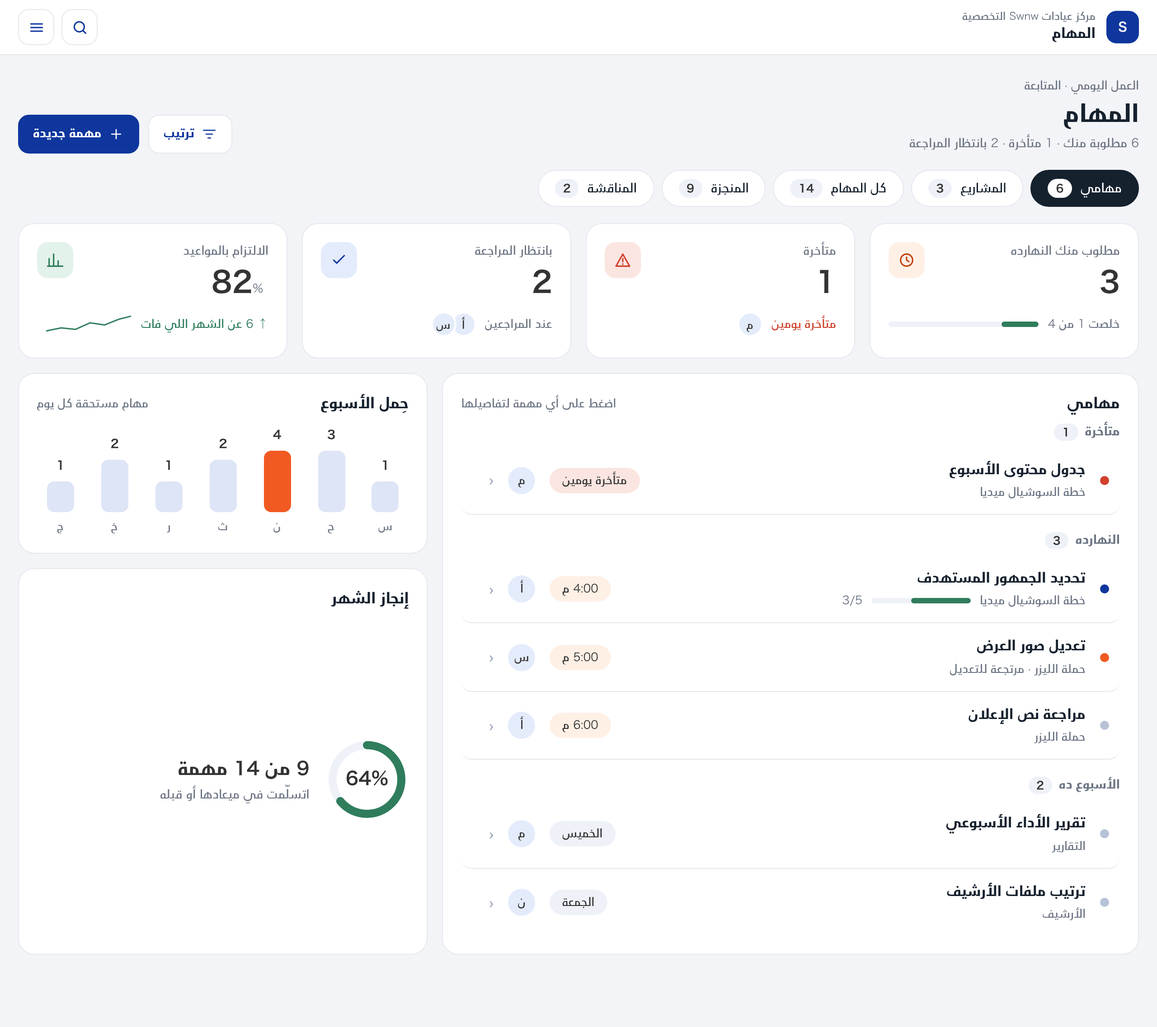
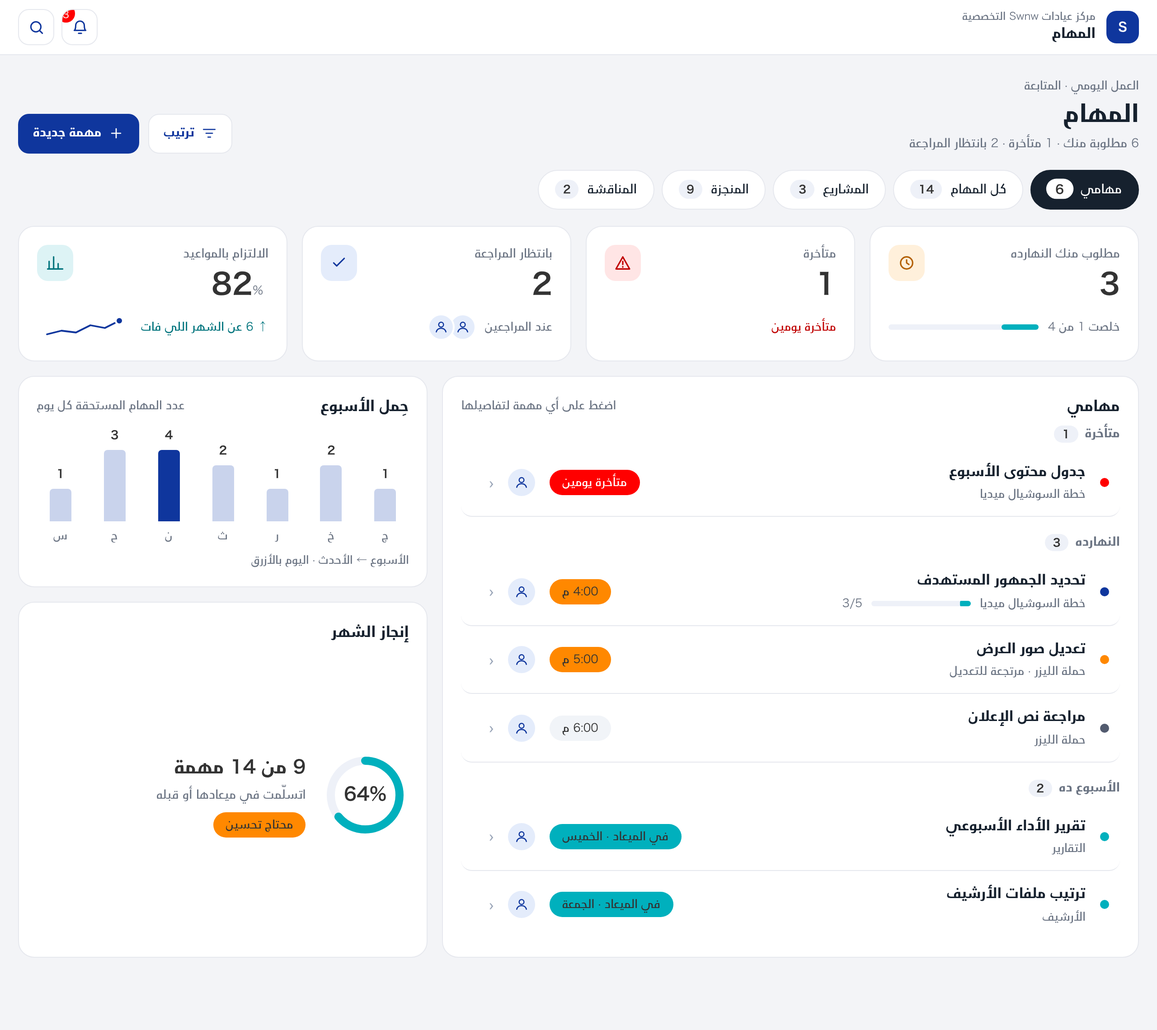
Mockup: Tasks v4 from the owner's kits (status colours, charts, motion/sound, manager view)

diff --git a/docs/ui-references/mockups/tasks-v2.html b/docs/ui-references/mockups/tasks-v2.html
@@ -1,111 +1,167 @@
-<!doctype html><html lang="ar" dir="rtl"><head><meta charset="utf-8"><meta name="viewport" content="width=device-width,initial-scale=1"><title>تصور — المهام (v3)</title>
-<!-- Mockup only (2026-11-19). Sample data. Same language as approved home v2 / team performance: no hero banner, icon-chip KPI tiles,
-     one-line meters, soft chips with dark #333 text, popups for every total and every task, 16px gutter, nothing wraps inside chips/buttons. -->
+<!doctype html><html lang="ar" dir="rtl"><head><meta charset="utf-8"><meta name="viewport" content="width=device-width,initial-scale=1"><title>تصور — المهام (v4)</title>
+<!-- Mockup only (2026-11-19). Sample data. Built from the owner-approved kits:
+     colours = status palette (on time #00B0BD, late #FF8800, absent/late-red #FF0000, grey #525B6F, none #F1F4F8; numbers on teal/orange in #333333),
+     charts = CHARTS.md (spark with end dot, segmented bar, meters, columns ≤24px LTR newest-right, ring + band chip),
+     motion/sound = interaction table (ripple+tick on press, lift on hover, pill slide + count bump, cards rise, numbers count up, bars grow; ui-motion.js/css loaded so sounds really play),
+     layout = home v2 / team performance: no hero banner, icon-chip KPI tiles, one 16px gutter, popups for every total and task, no wrapping inside chips/buttons. -->
+<link rel="stylesheet" href="../../../assets/css/ui-motion.css">
 <style>
 @font-face{font-family:"BigVesta Arabic";src:url("../../../assets/fonts/BigVesta-Regular.woff2") format("woff2");font-weight:400}
 @font-face{font-family:"BigVesta Arabic";src:url("../../../assets/fonts/BigVesta-Bold.woff2") format("woff2");font-weight:700}
 @font-face{font-family:"Hiragino Kaku";src:url("../../../assets/fonts/Hiragino-W3.woff2") format("woff2");font-weight:300}
 @font-face{font-family:"Hiragino Kaku";src:url("../../../assets/fonts/Hiragino-W6.woff2") format("woff2");font-weight:600}
-:root{--gap:16px;--blue:#0F369D;--ink:#16212E;--pos:#2F7D5C;--neg:#D0402A;--or:#F15A22;--bg:#F3F4F7;--line:#E6E8EE;--mute:#6B7483;--num:#333333;--ease:cubic-bezier(.22,1,.36,1)}
+:root{--gap:16px;--blue:#0F369D;--ink:#16212E;--teal:#00B0BD;--or:#FF8800;--red:#FF0000;--grey:#525B6F;--none:#F1F4F8;--bg:#F3F4F7;--line:#E6E8EE;--mute:#6B7483;--num:#333333;--ease:cubic-bezier(.22,1,.36,1);--spring:cubic-bezier(.34,1.56,.64,1)}
 *{box-sizing:border-box}
 body{margin:0;background:var(--bg);color:var(--ink);font-family:"Hiragino Kaku","BigVesta Arabic",system-ui,Tahoma,sans-serif;font-size:14px;line-height:1.6;font-variant-numeric:tabular-nums}
-svg{fill:none;stroke:currentColor;stroke-width:1.9;stroke-linecap:round;stroke-linejoin:round}
-button{font:inherit;color:inherit}
+svg{fill:none;stroke:currentColor;stroke-width:1.9;stroke-linecap:round;stroke-linejoin:round}button{font:inherit;color:inherit}
 .top{background:#fff;border-bottom:1px solid var(--line);display:flex;align-items:center;justify-content:space-between;padding:10px 20px}
 .brand{display:flex;align-items:center;gap:12px}.logo{width:36px;height:36px;border-radius:11px;background:var(--blue);color:#fff;display:grid;place-items:center;font-weight:700}
 .brand small{display:block;color:var(--mute);font-size:11.5px;line-height:1.3}.brand b{font-size:15px;line-height:1.3}
-.ib{width:40px;height:40px;border-radius:12px;border:1px solid var(--line);background:#fff;display:grid;place-items:center;color:var(--blue);cursor:pointer;transition:transform .2s var(--ease),background .2s}
-.ib:hover{background:#F3F5FA}.ib:active{transform:scale(.94)}.ib svg{width:19px;height:19px}
-.tb{display:flex;gap:8px}
+.ib{position:relative;width:40px;height:40px;border-radius:12px;border:1px solid var(--line);background:#fff;display:grid;place-items:center;color:var(--blue);cursor:pointer;transition:transform .2s var(--ease),background .2s}
+.ib:hover{background:#F3F5FA}.ib:active{transform:scale(.94)}.ib svg{width:19px;height:19px}.tb{display:flex;gap:8px}
+.badge{position:absolute;top:-6px;left:-6px;background:var(--red);color:#fff;border-radius:999px;font-size:11px;min-width:20px;height:20px;display:grid;place-items:center;padding:0 5px;line-height:1;box-shadow:0 0 0 2px #fff}
 .page{max-width:1280px;margin:0 auto;padding:var(--gap) 20px 80px;display:flex;flex-direction:column;gap:var(--gap)}
 .ph{display:flex;align-items:flex-end;gap:12px;flex-wrap:wrap;margin-top:8px}
-.crumb{font-size:12.5px;color:var(--mute)}.ph h1{margin:4px 0 6px;font-size:26px;line-height:1.3}.sub{font-size:13px;color:var(--mute);white-space:nowrap}
+.crumb{font-size:12.5px;color:var(--mute)}.ph h1{margin:4px 0 6px;font-size:26px;line-height:1.3}.sub{font-size:13px;color:var(--mute)}
 .acts{margin-inline-start:auto;display:flex;gap:10px;align-items:center}
-.btn{white-space:nowrap;display:inline-flex;align-items:center;gap:8px;border:1px solid var(--line);background:#fff;color:var(--blue);font-weight:600;font-size:13px;border-radius:12px;padding:10px 16px;min-height:42px;cursor:pointer;transition:background .18s,border-color .18s,transform .12s}
+.btn{position:relative;overflow:hidden;white-space:nowrap;display:inline-flex;align-items:center;gap:8px;border:1px solid var(--line);background:#fff;color:var(--blue);font-weight:600;font-size:13px;border-radius:12px;padding:10px 16px;min-height:44px;cursor:pointer;transition:background .18s,border-color .18s,transform .12s}
 .btn:hover{background:#F5F8FE;border-color:#B9C8EA}.btn:active{transform:scale(.97)}.btn svg{width:17px;height:17px}
 .btn.p{background:var(--blue);border-color:var(--blue);color:#fff}.btn.p:hover{background:#0c2d85}
 .seg{display:flex;gap:8px;overflow-x:auto;scrollbar-width:none;padding:2px 0}.seg::-webkit-scrollbar{display:none}
-.sg{flex:none;white-space:nowrap;border:1px solid var(--line);background:#fff;border-radius:999px;padding:9px 18px;display:flex;gap:10px;align-items:center;cursor:pointer;font-size:13.5px;transition:.22s}
-.sg b{background:#EEF1F8;color:var(--num);border-radius:999px;padding:0 9px;font-size:12px;min-width:24px;text-align:center;line-height:1.7}
-.sg.on{background:var(--ink);color:#fff;border-color:var(--ink)}.sg.on b{background:#fff}
+.sg{flex:none;white-space:nowrap;border:1px solid var(--line);background:#fff;border-radius:999px;padding:9px 18px;min-height:44px;display:flex;gap:10px;align-items:center;cursor:pointer;font-size:13.5px;transition:background .24s var(--ease),color .24s,border-color .24s}
+.sg b{background:#EEF1F8;color:var(--num);border-radius:999px;padding:0 9px;font-size:12px;min-width:24px;text-align:center;line-height:1.7;transition:transform .42s var(--spring)}
+.sg.on{background:var(--ink);color:#fff;border-color:var(--ink)}.sg.on b{background:#fff;transform:scale(1.12)}
 .card{background:#fff;border:1px solid var(--line);border-radius:18px;padding:20px;min-width:0}
+.rise>*{opacity:0;transform:translateY(14px);animation:rise .5s var(--ease) forwards}
+.rise>*:nth-child(1){animation-delay:.02s}.rise>*:nth-child(2){animation-delay:.09s}.rise>*:nth-child(3){animation-delay:.16s}.rise>*:nth-child(4){animation-delay:.23s}.rise>*:nth-child(5){animation-delay:.3s}
+@keyframes rise{to{opacity:1;transform:none}}
 .kpis{display:grid;grid-template-columns:repeat(4,minmax(0,1fr));gap:var(--gap)}
-.kpi{display:grid;grid-template-columns:1fr auto;gap:6px 12px;align-content:start;cursor:pointer;text-align:right;transition:transform .2s var(--ease),box-shadow .2s;min-height:150px}
-@media(hover:hover){.kpi:hover{transform:translateY(-3px);box-shadow:0 10px 24px rgba(15,54,157,.08)}}
+.kpi{display:grid;grid-template-columns:1fr auto;gap:6px 12px;align-content:start;cursor:pointer;text-align:right;transition:transform .2s var(--ease),box-shadow .2s;min-height:150px;position:relative;overflow:hidden}
+@media(hover:hover){.kpi:hover{transform:translateY(-3px)!important;box-shadow:0 10px 24px rgba(15,54,157,.1)}}
+.kpi:active{transform:scale(.97)}
 .ico{grid-row:1/3;grid-column:2;width:40px;height:40px;border-radius:12px;display:grid;place-items:center}.ico svg{width:20px;height:20px}
-.i-b{background:#E4ECFB;color:var(--blue)}.i-r{background:#FBE5E0;color:var(--neg)}.i-o{background:#FFF0E6;color:#C2410C}.i-g{background:#E3F2EA;color:var(--pos)}
+.i-b{background:#E4ECFB;color:var(--blue)}.i-r{background:#FFE5E5;color:#C00000}.i-o{background:#FFF0DB;color:#B35F00}.i-t{background:#DDF3F5;color:#00747D}
 .kpi small{color:var(--mute);font-size:13px;grid-column:1}.kpi b{font-size:32px;line-height:1.1;color:var(--num);grid-column:1}.kpi b u{font-size:13px;text-decoration:none;color:var(--mute);font-weight:400;margin-inline-start:6px}
 .kpi .ft{grid-column:1/-1;display:flex;align-items:center;gap:10px;margin-top:8px;font-size:12.5px;color:var(--mute);min-height:30px}
-.neg{color:var(--neg)}.pos{color:var(--pos)}
-.avs{display:flex}.avs i{width:28px;height:28px;border-radius:50%;background:#E4ECFB;border:2px solid #fff;display:grid;place-items:center;font-style:normal;font-size:12px;color:var(--num);margin-inline-start:-6px}.avs i:first-child{margin-inline-start:0}
-.meter{height:6px;border-radius:6px;background:#EEF1F8;flex:1;overflow:hidden}.meter i{display:block;height:100%;border-radius:6px;background:var(--pos)}
-.cols{display:grid;grid-template-columns:minmax(0,1.7fr) minmax(0,1fr);gap:var(--gap);align-items:stretch}.stack .card:last-child{flex:1}
-.ch{display:flex;align-items:center;justify-content:space-between;margin-bottom:6px}.ch h2{margin:0;font-size:16px}.ch span{color:var(--mute);font-size:12.5px}
+.neg{color:#C00000}.pos{color:#00747D}
+.avs{display:flex}.av{width:30px;height:30px;border-radius:50%;background:#E4ECFB;color:var(--blue);display:grid;place-items:center;flex:none}.av svg{width:16px;height:16px}.avs .av{border:2px solid #fff;margin-inline-start:-6px}.avs .av:first-child{margin-inline-start:0}
+.meter{height:6px;border-radius:6px;background:#EEF1F8;flex:1;overflow:hidden}.meter i{display:block;height:100%;border-radius:6px;background:var(--teal);transform-origin:right;animation:grow .8s var(--ease) both}
+@keyframes grow{from{transform:scaleX(0)}}
+.cols{display:grid;grid-template-columns:minmax(0,1.7fr) minmax(0,1fr);gap:var(--gap);align-items:stretch}
+.stack{display:flex;flex-direction:column;gap:var(--gap)}.stack .card:last-child{flex:1;display:flex;flex-direction:column}
+.ch{display:flex;align-items:center;justify-content:space-between;margin-bottom:8px;gap:12px}.ch h2{margin:0;font-size:16px}.ch span{color:var(--mute);font-size:12.5px}
 .grp h3{margin:18px 0 6px;font-size:13px;color:var(--mute);font-weight:600;display:flex;gap:8px;align-items:center}.grp h3:first-of-type{margin-top:8px}
 .grp h3 b{background:#EEF1F8;color:var(--num);border-radius:999px;padding:0 9px;font-size:12px}
-.row{display:grid;grid-template-columns:10px minmax(0,1fr) auto auto 24px;gap:16px;align-items:center;padding:14px 12px;border-bottom:1px solid var(--line);border-radius:12px;cursor:pointer;background:transparent;border-inline:0;border-top:0;width:100%;text-align:right;transition:background .18s}
-.row:last-child{border-bottom:0}@media(hover:hover){.row:hover{background:var(--bg)}}
-.dot{width:10px;height:10px;border-radius:50%;background:#B8C2D6}.d-late{background:var(--neg)}.d-go{background:var(--blue)}.d-rev{background:var(--or)}
-.t b{display:block;font-size:15px;line-height:1.5;margin-bottom:4px}.t span{display:flex;gap:10px;align-items:center;color:var(--mute);font-size:12.5px}.t .meter{max-width:110px;flex:none;width:110px}
-.chip{border-radius:999px;padding:4px 14px;font-size:12.5px;white-space:nowrap;color:var(--num);line-height:1.6}
-.c-late{background:#FBE5E0}.c-today{background:#FFF0E6}.c-week{background:#EEF1F8}.c-go{background:#E4ECFB}.c-ok{background:#E3F2EA}
-.av{width:30px;height:30px;border-radius:50%;background:#E4ECFB;display:grid;place-items:center;font-size:12.5px;color:var(--num)}
+.row{position:relative;overflow:hidden;display:grid;grid-template-columns:10px minmax(0,1fr) auto auto 24px;gap:16px;align-items:center;padding:14px 12px;border-bottom:1px solid var(--line);border-radius:12px;cursor:pointer;background:transparent;border-inline:0;border-top:0;width:100%;text-align:right;transition:background .18s,transform .12s}
+.row:last-child{border-bottom:0}.row:active{transform:scale(.99)}@media(hover:hover){.row:hover{background:var(--bg)}}
+.dot{width:10px;height:10px;border-radius:50%;background:var(--grey)}.d-late{background:var(--red)}.d-go{background:var(--blue)}.d-soon{background:var(--or)}.d-ok{background:var(--teal)}
+.t b{display:block;font-size:15px;line-height:1.5;margin-bottom:4px}.t span.l{display:flex;gap:10px;align-items:center;color:var(--mute);font-size:12.5px}.t .meter{flex:none;width:110px}
+.chip{border-radius:999px;padding:4px 14px;font-size:12.5px;white-space:nowrap;line-height:1.6;color:var(--num)}
+.st-ok{background:var(--teal)}.st-soon{background:var(--or)}.st-late{background:var(--red);color:#fff}.st-wait{background:var(--grey);color:#fff}.st-new{background:var(--none)}.st-go{background:#E4ECFB}
 .arr{color:#9AA5B8;font-size:18px}
-.week{display:grid;grid-template-columns:repeat(7,1fr);gap:8px;margin-top:12px;align-items:end;height:120px}
-.week div{display:flex;flex-direction:column;align-items:center;gap:6px;justify-content:flex-end;height:100%;font-size:12px;color:var(--mute)}
-.week i{width:100%;max-width:30px;border-radius:8px;background:#DDE5F6;display:block}.week .now i{background:var(--or)}.week b{color:var(--num);font-size:13px}
-.ring{display:flex;gap:18px;align-items:center;margin-top:8px;flex:1}.stack .card:last-child{display:flex;flex-direction:column}.ring svg{width:92px;height:92px;flex:none}.ring p{margin:0;color:var(--mute);font-size:13px}.ring strong{display:block;font-size:20px;color:var(--num);margin-bottom:4px}
-.stack{display:flex;flex-direction:column;gap:var(--gap)}
+.chart{direction:ltr;display:flex;align-items:flex-end;justify-content:space-between;gap:8px;height:130px;margin-top:10px}
+.chart div{flex:1;display:flex;flex-direction:column;align-items:center;justify-content:flex-end;gap:6px;height:100%;font-size:12px;color:var(--mute)}
+.chart i{display:block;width:100%;max-width:24px;border-radius:4px 4px 0 0;background:#C9D3EC;transform-origin:bottom;animation:growy .7s var(--ease) both}.chart .now i{background:var(--blue)}
+@keyframes growy{from{transform:scaleY(0)}}
+.chart b{color:var(--num);font-size:12.5px}.cap{font-size:12px;color:var(--mute);margin-top:8px}
+.ring{display:flex;gap:18px;align-items:center;flex:1}.ring svg{width:96px;height:96px;flex:none}.ring .rg{stroke-dashoffset:0;animation:fill 1s var(--ease) both}
+@keyframes fill{from{stroke-dashoffset:239}}
+.ring p{margin:0;color:var(--mute);font-size:13px}.ring strong{display:block;font-size:20px;color:var(--num);margin-bottom:6px}
+.band{display:inline-block;margin-top:8px}
+.spark{width:96px;height:28px;color:var(--blue)}.spark path.ln{stroke-dasharray:200;animation:draw 1s var(--ease) both}@keyframes draw{from{stroke-dashoffset:200}}
+.segbar{display:flex;gap:2px;height:14px;margin:10px 0 14px;border-radius:7px;overflow:hidden}.segbar i{display:block;transform-origin:right;animation:grow .8s var(--ease) both}
+.leg{display:flex;flex-wrap:wrap;gap:8px 18px;font-size:13px;color:var(--ink)}.leg span{display:flex;gap:8px;align-items:center}.leg i{width:10px;height:10px;border-radius:3px;display:block}.leg b{color:var(--num)}
+.ml{display:grid;gap:14px;margin-top:10px}.ml div{display:grid;grid-template-columns:130px minmax(0,1fr) 54px;gap:12px;align-items:center;font-size:13.5px}.ml em{font-style:normal;color:var(--num);text-align:left;font-weight:600}
+.ml .meter i{background:var(--blue)}.ml .over i{background:var(--or)}
+.panel{display:none}.panel.on{display:flex;flex-direction:column;gap:var(--gap)}
 .ov{position:fixed;inset:0;background:rgba(22,33,46,.45);display:none;align-items:center;justify-content:center;padding:16px;z-index:9}.ov.open{display:flex}
 .sheet{background:#fff;border-radius:22px;width:min(560px,100%);max-height:88vh;overflow:auto;padding:24px;animation:up .26s var(--ease)}
 @keyframes up{from{transform:translateY(24px);opacity:0}to{transform:none;opacity:1}}
 .sheet h3{margin:0 0 4px;font-size:20px}.sheet .m{color:var(--mute);font-size:13px;margin-bottom:18px}
 .f{display:grid;grid-template-columns:1fr 1fr;gap:10px;margin-bottom:16px}.f div{background:var(--bg);border-radius:12px;padding:12px 14px;font-size:13.5px}.f span.l{display:block;color:var(--mute);font-size:12px;margin-bottom:4px}
-.desc{font-size:14px;line-height:1.8;margin-bottom:18px}
-.btns{display:flex;gap:10px;margin-top:18px}.btns .btn{flex:1;justify-content:center}
+.desc{font-size:14px;line-height:1.8;margin-bottom:18px}.btns{display:flex;gap:10px;margin-top:18px}.btns .btn{flex:1;justify-content:center}
 .pr{display:flex;justify-content:space-between;align-items:center;gap:12px;padding:12px 0;border-bottom:1px dashed var(--line);font-size:14px}.pr:last-of-type{border:0}
 @media(max-width:900px){.kpis{grid-template-columns:repeat(2,minmax(0,1fr))}.cols{grid-template-columns:1fr}}
-@media(max-width:600px){.page{padding:12px 12px 80px}.row{grid-template-columns:10px minmax(0,1fr) auto 20px}.row .av{display:none}.acts .btn.sec{display:none}.sub{white-space:normal}.kpi{min-height:140px}.kpi b{font-size:28px}.ov{align-items:flex-end;padding:0}.sheet{border-radius:22px 22px 0 0}.t .meter{display:none}}
+@media(max-width:600px){.page{padding:12px 12px 80px}.row{grid-template-columns:10px minmax(0,1fr) auto 20px}.row .av{display:none}.acts .sec{display:none}.kpi{min-height:140px}.kpi b{font-size:28px}.ov{align-items:flex-end;padding:0}.sheet{border-radius:22px 22px 0 0}.t .meter{display:none}.ml div{grid-template-columns:90px minmax(0,1fr) 44px}}
+html.still *{animation:none!important;transition:none!important}html.still .rise>*{opacity:1;transform:none}
+@media(prefers-reduced-motion:reduce){*{animation:none!important;transition:none!important}.rise>*{opacity:1;transform:none}}
 </style></head><body>
-<div class="top"><div class="brand"><div class="logo">S</div><div><small>مركز عيادات Swnw التخصصية</small><b>المهام</b></div></div><div class="tb"><button class="ib" aria-label="بحث"><svg viewBox="0 0 24 24"><circle cx="11" cy="11" r="7"/><path d="M20 20l-4-4"/></svg></button><button class="ib" aria-label="القائمة"><svg viewBox="0 0 24 24"><path d="M4 7h16M4 12h16M4 17h16"/></svg></button></div></div>
+<svg width="0" height="0" style="position:absolute"><symbol id="u" viewBox="0 0 24 24"><circle cx="12" cy="8" r="4"/><path d="M4 20c1-4 4-6 8-6s7 2 8 6"/></symbol></svg>
+<div class="top"><div class="brand"><div class="logo">S</div><div><small>مركز عيادات Swnw التخصصية</small><b>المهام</b></div></div><div class="tb"><button class="ib fx-ripple" aria-label="الإشعارات"><svg viewBox="0 0 24 24"><path d="M6 9a6 6 0 0112 0c0 6 2 7 2 7H4s2-1 2-7M10 20h4"/></svg><span class="badge">3</span></button><button class="ib fx-ripple" aria-label="بحث"><svg viewBox="0 0 24 24"><circle cx="11" cy="11" r="7"/><path d="M20 20l-4-4"/></svg></button></div></div>
 <div class="page">
- <div class="ph"><div><div class="crumb">العمل اليومي · المتابعة</div><h1>المهام</h1><div class="sub">6 مطلوبة منك · 1 متأخرة · 2 بانتظار المراجعة</div></div>
-  <div class="acts"><button class="btn sec"><svg viewBox="0 0 24 24"><path d="M3 6h18M7 12h10M10 18h4"/></svg>ترتيب</button><button class="btn p"><svg viewBox="0 0 24 24"><path d="M12 5v14M5 12h14"/></svg>مهمة جديدة</button></div></div>
- <div class="seg"><button class="sg on">مهامي <b>6</b></button><button class="sg">المشاريع <b>3</b></button><button class="sg">كل المهام <b>14</b></button><button class="sg">المنجزة <b>9</b></button><button class="sg">المناقشة <b>2</b></button></div>
- <div class="kpis">
-  <button class="card kpi" data-pop="today"><span class="ico i-o"><svg viewBox="0 0 24 24"><circle cx="12" cy="12" r="8"/><path d="M12 8v4l3 2"/></svg></span><small>مطلوب منك النهارده</small><b>3</b><div class="ft"><span>خلصت 1 من 4</span><span class="meter"><i style="width:25%"></i></span></div></button>
-  <button class="card kpi" data-pop="late"><span class="ico i-r"><svg viewBox="0 0 24 24"><path d="M12 4l9 16H3z"/><path d="M12 10v4M12 17v.5"/></svg></span><small>متأخرة</small><b class="neg">1</b><div class="ft"><span class="neg">متأخرة يومين</span><span class="avs"><i>م</i></span></div></button>
-  <button class="card kpi" data-pop="review"><span class="ico i-b"><svg viewBox="0 0 24 24"><path d="M5 12l4 4 10-10"/></svg></span><small>بانتظار المراجعة</small><b>2</b><div class="ft"><span>عند المراجعين</span><span class="avs"><i>أ</i><i>س</i></span></div></button>
-  <div class="card kpi" style="cursor:default"><span class="ico i-g"><svg viewBox="0 0 24 24"><path d="M4 20V10M10 20V4M16 20v-7M22 20H2"/></svg></span><small>الالتزام بالمواعيد</small><b>82<u>%</u></b><div class="ft"><span class="pos">↑ 6 عن الشهر اللي فات</span><svg viewBox="0 0 120 30" style="width:96px;height:28px;color:var(--pos)"><path d="M2 24l20-4 20 2 20-9 20 3 20-8 16-4"/></svg></div></div>
+ <div class="ph"><div><div class="crumb">العمل اليومي · المتابعة</div><h1>المهام</h1><div class="sub" id="sub">6 مطلوبة منك · 1 متأخرة · 2 بانتظار المراجعة</div></div>
+  <div class="acts"><button class="btn sec fx-ripple"><svg viewBox="0 0 24 24"><path d="M3 6h18M7 12h10M10 18h4"/></svg>ترتيب</button><button class="btn p fx-ripple"><svg viewBox="0 0 24 24"><path d="M12 5v14M5 12h14"/></svg>مهمة جديدة</button></div></div>
+ <div class="seg" id="tabs"><button class="sg on" data-tab="mine">مهامي <b>6</b></button><button class="sg" data-tab="all">كل المهام <b>14</b></button><button class="sg">المشاريع <b>3</b></button><button class="sg">المنجزة <b>9</b></button><button class="sg">المناقشة <b>2</b></button></div>
+
+ <!-- شاشة الموظف -->
+ <div class="panel on" id="p-mine">
+  <div class="kpis rise">
+   <button class="card kpi fx-ripple" data-pop="today"><span class="ico i-o"><svg viewBox="0 0 24 24"><circle cx="12" cy="12" r="8"/><path d="M12 8v4l3 2"/></svg></span><small>مطلوب منك النهارده</small><b data-count="3">0</b><div class="ft"><span>خلصت 1 من 4</span><span class="meter"><i style="width:25%"></i></span></div></button>
+   <button class="card kpi fx-ripple" data-pop="late"><span class="ico i-r"><svg viewBox="0 0 24 24"><path d="M12 4l9 16H3z"/><path d="M12 10v4M12 17v.5"/></svg></span><small>متأخرة</small><b class="neg" data-count="1">0</b><div class="ft"><span class="neg">متأخرة يومين</span></div></button>
+   <button class="card kpi fx-ripple" data-pop="review"><span class="ico i-b"><svg viewBox="0 0 24 24"><path d="M5 12l4 4 10-10"/></svg></span><small>بانتظار المراجعة</small><b data-count="2">0</b><div class="ft"><span>عند المراجعين</span><span class="avs"><span class="av"><svg><use href="#u"/></svg></span><span class="av"><svg><use href="#u"/></svg></span></span></div></button>
+   <div class="card kpi" style="cursor:default"><span class="ico i-t"><svg viewBox="0 0 24 24"><path d="M4 20V10M10 20V4M16 20v-7M22 20H2"/></svg></span><small>الالتزام بالمواعيد</small><b><span data-count="82">0</span><u>%</u></b><div class="ft"><span class="pos">↑ 6 عن الشهر اللي فات</span><svg class="spark" viewBox="0 0 96 28"><path class="ln" d="M2 22L18 18L34 20L50 12L66 15L82 7" /><circle cx="82" cy="7" r="4" fill="#0F369D" stroke="#fff" stroke-width="2"/></svg></div></div>
+  </div>
+  <div class="cols">
+   <section class="card grp"><div class="ch"><h2>مهامي</h2><span>اضغط على أي مهمة لتفاصيلها</span></div>
+    <h3>متأخرة <b>1</b></h3>
+    <button class="row fx-ripple" data-pop="task"><i class="dot d-late"></i><span class="t"><b>جدول محتوى الأسبوع</b><span class="l">خطة السوشيال ميديا</span></span><span class="chip st-late">متأخرة يومين</span><span class="av"><svg><use href="#u"/></svg></span><span class="arr">‹</span></button>
+    <h3>النهارده <b>3</b></h3>
+    <button class="row fx-ripple" data-pop="task"><i class="dot d-go"></i><span class="t"><b>تحديد الجمهور المستهدف</b><span class="l">خطة السوشيال ميديا <span class="meter"><i style="width:60%"></i></span> 3/5</span></span><span class="chip st-soon">4:00 م</span><span class="av"><svg><use href="#u"/></svg></span><span class="arr">‹</span></button>
+    <button class="row fx-ripple" data-pop="task"><i class="dot d-soon"></i><span class="t"><b>تعديل صور العرض</b><span class="l">حملة الليزر · مرتجعة للتعديل</span></span><span class="chip st-soon">5:00 م</span><span class="av"><svg><use href="#u"/></svg></span><span class="arr">‹</span></button>
+    <button class="row fx-ripple" data-pop="task"><i class="dot"></i><span class="t"><b>مراجعة نص الإعلان</b><span class="l">حملة الليزر</span></span><span class="chip st-new">6:00 م</span><span class="av"><svg><use href="#u"/></svg></span><span class="arr">‹</span></button>
+    <h3>الأسبوع ده <b>2</b></h3>
+    <button class="row fx-ripple" data-pop="task"><i class="dot d-ok"></i><span class="t"><b>تقرير الأداء الأسبوعي</b><span class="l">التقارير</span></span><span class="chip st-ok">في الميعاد · الخميس</span><span class="av"><svg><use href="#u"/></svg></span><span class="arr">‹</span></button>
+    <button class="row fx-ripple" data-pop="task"><i class="dot d-ok"></i><span class="t"><b>ترتيب ملفات الأرشيف</b><span class="l">الأرشيف</span></span><span class="chip st-ok">في الميعاد · الجمعة</span><span class="av"><svg><use href="#u"/></svg></span><span class="arr">‹</span></button>
+   </section>
+   <div class="stack">
+    <section class="card"><div class="ch"><h2>حِمل الأسبوع</h2><span>عدد المهام المستحقة كل يوم</span></div>
+     <div class="chart"><div><b>1</b><i style="height:28%"></i>س</div><div><b>3</b><i style="height:70%"></i>ح</div><div class="now"><b>4</b><i style="height:90%"></i>ن</div><div><b>2</b><i style="height:48%"></i>ث</div><div><b>1</b><i style="height:28%"></i>ر</div><div><b>2</b><i style="height:48%"></i>خ</div><div><b>1</b><i style="height:28%"></i>ج</div></div>
+     <div class="cap">الأسبوع ← الأحدث · اليوم بالأزرق</div></section>
+    <section class="card"><div class="ch"><h2>إنجاز الشهر</h2></div>
+     <div class="ring"><svg viewBox="0 0 96 96"><circle cx="48" cy="48" r="38" stroke="#EEF1F8" stroke-width="9"/><circle class="rg" cx="48" cy="48" r="38" stroke="#00B0BD" stroke-width="9" stroke-dasharray="153 239" transform="rotate(-90 48 48)"/><text x="48" y="54" text-anchor="middle" font-size="20" font-weight="700" fill="#333" stroke="none">64%</text></svg><p><strong>9 من 14 مهمة</strong>اتسلّمت في ميعادها أو قبله<br><span class="chip st-soon band">محتاج تحسين</span></p></div></section>
+   </div>
+  </div>
  </div>
- <div class="cols">
-  <section class="card grp"><div class="ch"><h2>مهامي</h2><span>اضغط على أي مهمة لتفاصيلها</span></div>
-   <h3>متأخرة <b>1</b></h3>
-   <button class="row" data-pop="task"><i class="dot d-late"></i><span class="t"><b>جدول محتوى الأسبوع</b><span>خطة السوشيال ميديا</span></span><span class="chip c-late">متأخرة يومين</span><span class="av">م</span><span class="arr">‹</span></button>
-   <h3>النهارده <b>3</b></h3>
-   <button class="row" data-pop="task"><i class="dot d-go"></i><span class="t"><b>تحديد الجمهور المستهدف</b><span>خطة السوشيال ميديا <i class="meter"><i style="width:60%"></i></i> 3/5</span></span><span class="chip c-today">4:00 م</span><span class="av">أ</span><span class="arr">‹</span></button>
-   <button class="row" data-pop="task"><i class="dot d-rev"></i><span class="t"><b>تعديل صور العرض</b><span>حملة الليزر · مرتجعة للتعديل</span></span><span class="chip c-today">5:00 م</span><span class="av">س</span><span class="arr">‹</span></button>
-   <button class="row" data-pop="task"><i class="dot"></i><span class="t"><b>مراجعة نص الإعلان</b><span>حملة الليزر</span></span><span class="chip c-today">6:00 م</span><span class="av">أ</span><span class="arr">‹</span></button>
-   <h3>الأسبوع ده <b>2</b></h3>
-   <button class="row" data-pop="task"><i class="dot"></i><span class="t"><b>تقرير الأداء الأسبوعي</b><span>التقارير</span></span><span class="chip c-week">الخميس</span><span class="av">م</span><span class="arr">‹</span></button>
-   <button class="row" data-pop="task"><i class="dot"></i><span class="t"><b>ترتيب ملفات الأرشيف</b><span>الأرشيف</span></span><span class="chip c-week">الجمعة</span><span class="av">ن</span><span class="arr">‹</span></button>
-  </section>
-  <div class="stack">
-   <section class="card"><div class="ch"><h2>حِمل الأسبوع</h2><span>مهام مستحقة كل يوم</span></div>
-    <div class="week"><div><b>1</b><i style="height:28%"></i>س</div><div><b>3</b><i style="height:70%"></i>ح</div><div class="now"><b>4</b><i style="height:90%"></i>ن</div><div><b>2</b><i style="height:48%"></i>ث</div><div><b>1</b><i style="height:28%"></i>ر</div><div><b>2</b><i style="height:48%"></i>خ</div><div><b>1</b><i style="height:28%"></i>ج</div></div></section>
-   <section class="card"><div class="ch"><h2>إنجاز الشهر</h2></div>
-    <div class="ring"><svg viewBox="0 0 92 92"><circle cx="46" cy="46" r="38" stroke="#EEF1F8" stroke-width="9"/><circle cx="46" cy="46" r="38" stroke="#2F7D5C" stroke-width="9" stroke-dasharray="153 239" transform="rotate(-90 46 46)"/><text x="46" y="52" text-anchor="middle" font-size="20" font-weight="700" fill="#333" stroke="none">64%</text></svg><p><strong>9 من 14 مهمة</strong>اتسلّمت في ميعادها أو قبله</p></div></section>
+
+ <!-- شاشة المدير -->
+ <div class="panel" id="p-all">
+  <div class="kpis">
+   <button class="card kpi fx-ripple" data-pop="all"><span class="ico i-b"><svg viewBox="0 0 24 24"><path d="M4 6h16M4 12h16M4 18h10"/></svg></span><small>مهام مفتوحة</small><b data-count="14">0</b><div class="ft"><span>على 5 موظفين</span><span class="avs"><span class="av"><svg><use href="#u"/></svg></span><span class="av"><svg><use href="#u"/></svg></span><span class="av"><svg><use href="#u"/></svg></span></span></div></button>
+   <button class="card kpi fx-ripple" data-pop="late"><span class="ico i-r"><svg viewBox="0 0 24 24"><path d="M12 4l9 16H3z"/><path d="M12 10v4M12 17v.5"/></svg></span><small>متأخرة</small><b class="neg" data-count="3">0</b><div class="ft"><span class="neg">1 متأخرة أكتر من يومين</span></div></button>
+   <button class="card kpi fx-ripple" data-pop="review"><span class="ico i-o"><svg viewBox="0 0 24 24"><path d="M5 12l4 4 10-10"/></svg></span><small>عند المراجعة</small><b data-count="4">0</b><div class="ft"><span>محتاجة قرارك</span></div></button>
+   <div class="card kpi" style="cursor:default"><span class="ico i-t"><svg viewBox="0 0 24 24"><path d="M4 20V10M10 20V4M16 20v-7M22 20H2"/></svg></span><small>الالتزام بالمواعيد</small><b><span data-count="78">0</span><u>%</u></b><div class="ft"><span class="neg">↓ 3 عن الشهر اللي فات</span><svg class="spark" viewBox="0 0 96 28"><path class="ln" d="M2 8L18 10L34 9L50 15L66 14L82 19"/><circle cx="82" cy="19" r="4" fill="#0F369D" stroke="#fff" stroke-width="2"/></svg></div></div>
+  </div>
+  <div class="cols">
+   <section class="card"><div class="ch"><h2>توزيع المهام</h2><span>14 مهمة مفتوحة</span></div>
+    <div class="segbar"><i style="flex:5;background:var(--blue)"></i><i style="flex:3;background:var(--teal)"></i><i style="flex:2;background:var(--or)"></i><i style="flex:3;background:var(--red)"></i><i style="flex:1;background:var(--grey)"></i></div>
+    <div class="leg"><span><i style="background:var(--blue)"></i>جاري <b>5</b></span><span><i style="background:var(--teal)"></i>في الميعاد <b>3</b></span><span><i style="background:var(--or)"></i>قربت <b>2</b></span><span><i style="background:var(--red)"></i>متأخرة <b>3</b></span><span><i style="background:var(--grey)"></i>مؤجلة <b>1</b></span></div>
+    <div class="ch" style="margin-top:22px"><h2>حِمل الفريق</h2><span>مهام مفتوحة لكل موظف · الخط = الحد</span></div>
+    <div class="ml"><div>أحمد<span class="meter"><i style="width:80%"></i></span><em>4</em></div><div>سارة<span class="meter over"><i style="width:100%"></i></span><em>5</em></div><div>منى<span class="meter"><i style="width:40%"></i></span><em>2</em></div><div>نور<span class="meter"><i style="width:60%"></i></span><em>3</em></div></div></section>
+   <section class="card grp"><div class="ch"><h2>محتاج متابعة</h2><span>مرتبة بالأهم</span></div>
+    <button class="row fx-ripple" data-pop="task"><i class="dot d-late"></i><span class="t"><b>جدول محتوى الأسبوع</b><span class="l">منى · خطة السوشيال ميديا</span></span><span class="chip st-late">يومين</span><span class="av"><svg><use href="#u"/></svg></span><span class="arr">‹</span></button>
+    <button class="row fx-ripple" data-pop="task"><i class="dot d-late"></i><span class="t"><b>تصميم بانر العرض</b><span class="l">سارة · حملة الليزر</span></span><span class="chip st-late">يوم</span><span class="av"><svg><use href="#u"/></svg></span><span class="arr">‹</span></button>
+    <button class="row fx-ripple" data-pop="task"><i class="dot d-late"></i><span class="t"><b>رد على التعليقات</b><span class="l">أحمد · الصفحة</span></span><span class="chip st-late">3 ساعات</span><span class="av"><svg><use href="#u"/></svg></span><span class="arr">‹</span></button>
+    <button class="row fx-ripple" data-pop="review"><i class="dot d-soon"></i><span class="t"><b>4 مهام عند المراجعة</b><span class="l">محتاجة قرارك</span></span><span class="chip st-soon">فتح</span><span class="av"><svg><use href="#u"/></svg></span><span class="arr">‹</span></button>
+   </section>
   </div>
  </div>
 </div>
 <div class="ov" id="ov"><div class="sheet" id="sh"></div></div>
+<script src="../../../assets/js/ui-motion.js"></script>
 <script>
-const T={task:'<h3>تحديد الجمهور المستهدف</h3><div class="m">خطة السوشيال ميديا · أسندها: مدير المشروع</div><div class="f"><div><span class="l">الموعد</span>النهارده 4:00 م</div><div><span class="l">الحالة</span><span class="chip c-go">جاري العمل</span></div></div><div class="desc">حدّد الفئات العمرية والاهتمامات لحملة الليزر، وسلّم جدول Word واحد.</div><div class="btns"><button class="btn" data-x>إغلاق</button><button class="btn p">فتح المهمة</button></div>',
-today:'<h3>مطلوب النهارده</h3><div class="m">3 مهام</div><div class="pr"><span>تحديد الجمهور المستهدف</span><span class="chip c-today">4:00 م</span></div><div class="pr"><span>تعديل صور العرض</span><span class="chip c-today">5:00 م</span></div><div class="pr"><span>مراجعة نص الإعلان</span><span class="chip c-today">6:00 م</span></div><div class="btns"><button class="btn" data-x>إغلاق</button></div>',
-late:'<h3>المتأخرة</h3><div class="m">1 مهمة</div><div class="pr"><span>جدول محتوى الأسبوع</span><span class="chip c-late">متأخرة يومين</span></div><div class="btns"><button class="btn" data-x>إغلاق</button><button class="btn p">ابدأ بيها</button></div>',
-review:'<h3>بانتظار المراجعة</h3><div class="m">2 مهام عند المراجعين</div><div class="pr"><span>خطة المحتوى الشهرية</span><span class="chip c-go">عند المدير</span></div><div class="pr"><span>تصميم البانر</span><span class="chip c-go">عند المدير</span></div><div class="btns"><button class="btn" data-x>إغلاق</button></div>'};
+const T={task:'<h3>تحديد الجمهور المستهدف</h3><div class="m">خطة السوشيال ميديا · أسندها: مدير المشروع</div><div class="f"><div><span class="l">الموعد</span>النهارده 4:00 م</div><div><span class="l">الحالة</span><span class="chip st-go">جاري العمل</span></div></div><div class="desc">حدّد الفئات العمرية والاهتمامات لحملة الليزر، وسلّم جدول Word واحد.</div><div class="btns"><button class="btn fx-ripple" data-x>إغلاق</button><button class="btn p fx-ripple">فتح المهمة</button></div>',
+today:'<h3>مطلوب النهارده</h3><div class="m">3 مهام</div><div class="pr"><span>تحديد الجمهور المستهدف</span><span class="chip st-soon">4:00 م</span></div><div class="pr"><span>تعديل صور العرض</span><span class="chip st-soon">5:00 م</span></div><div class="pr"><span>مراجعة نص الإعلان</span><span class="chip st-new">6:00 م</span></div><div class="btns"><button class="btn fx-ripple" data-x>إغلاق</button></div>',
+late:'<h3>المتأخرة</h3><div class="m">اضغط على مهمة لفتحها</div><div class="pr"><span>جدول محتوى الأسبوع</span><span class="chip st-late">متأخرة يومين</span></div><div class="btns"><button class="btn fx-ripple" data-x>إغلاق</button><button class="btn p fx-ripple">ابدأ بيها</button></div>',
+review:'<h3>بانتظار المراجعة</h3><div class="m">مهام عند المراجعين</div><div class="pr"><span>خطة المحتوى الشهرية</span><span class="chip st-go">عند المدير</span></div><div class="pr"><span>تصميم البانر</span><span class="chip st-go">عند المدير</span></div><div class="btns"><button class="btn fx-ripple" data-x>إغلاق</button></div>',
+all:'<h3>كل المهام المفتوحة</h3><div class="m">14 مهمة على 5 موظفين</div><div class="pr"><span>أحمد</span><span class="chip st-new">4 مهام</span></div><div class="pr"><span>سارة</span><span class="chip st-soon">5 مهام</span></div><div class="pr"><span>منى</span><span class="chip st-new">2 مهام</span></div><div class="pr"><span>نور</span><span class="chip st-new">3 مهام</span></div><div class="btns"><button class="btn fx-ripple" data-x>إغلاق</button></div>'};
+if(navigator.webdriver&&!location.hash.includes('motion'))document.documentElement.classList.add('still');
 const ov=document.getElementById('ov'),sh=document.getElementById('sh');
-document.querySelectorAll('[data-pop]').forEach(b=>b.onclick=()=>{sh.innerHTML=T[b.dataset.pop];ov.classList.add('open');sh.querySelectorAll('[data-x]').forEach(x=>x.onclick=()=>ov.classList.remove('open'))});
-ov.onclick=e=>{if(e.target===ov)ov.classList.remove('open')};
+function bind(){document.querySelectorAll('[data-pop]').forEach(b=>b.onclick=()=>{sh.innerHTML=T[b.dataset.pop];ov.classList.add('open');sh.querySelectorAll('[data-x]').forEach(x=>x.onclick=()=>ov.classList.remove('open'))})}
+bind();ov.onclick=e=>{if(e.target===ov)ov.classList.remove('open')};
+function count(root){root.querySelectorAll('[data-count]').forEach(el=>{const to=+el.dataset.count,t0=performance.now();(function f(t){const p=Math.min(1,(t-t0)/600);el.textContent=Math.round(to*(1-Math.pow(1-p,3)));if(p<1)requestAnimationFrame(f)})(t0)})}
+const subs={mine:'6 مطلوبة منك · 1 متأخرة · 2 بانتظار المراجعة',all:'14 مفتوحة · 3 متأخرة · 4 عند المراجعة'};
+document.querySelectorAll('[data-tab]').forEach(b=>b.onclick=()=>{document.querySelectorAll('.sg').forEach(x=>x.classList.remove('on'));b.classList.add('on');document.querySelectorAll('.panel').forEach(p=>p.classList.remove('on'));const p=document.getElementById('p-'+b.dataset.tab);p.classList.add('on');document.getElementById('sub').textContent=subs[b.dataset.tab];count(p)});
+count(document.getElementById('p-mine'));
 if(location.hash==='#pop')document.querySelector('[data-pop=task]').click();
+if(location.hash==='#all')document.querySelector('[data-tab=all]').click();
 </script></body></html>
